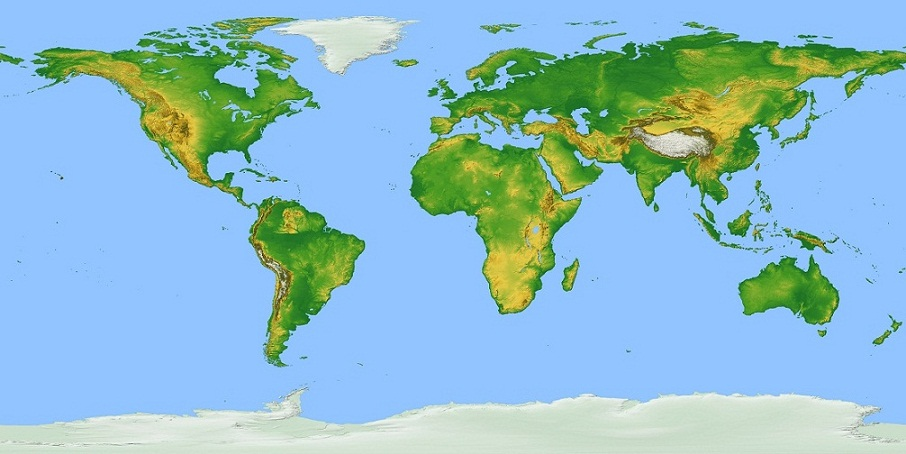
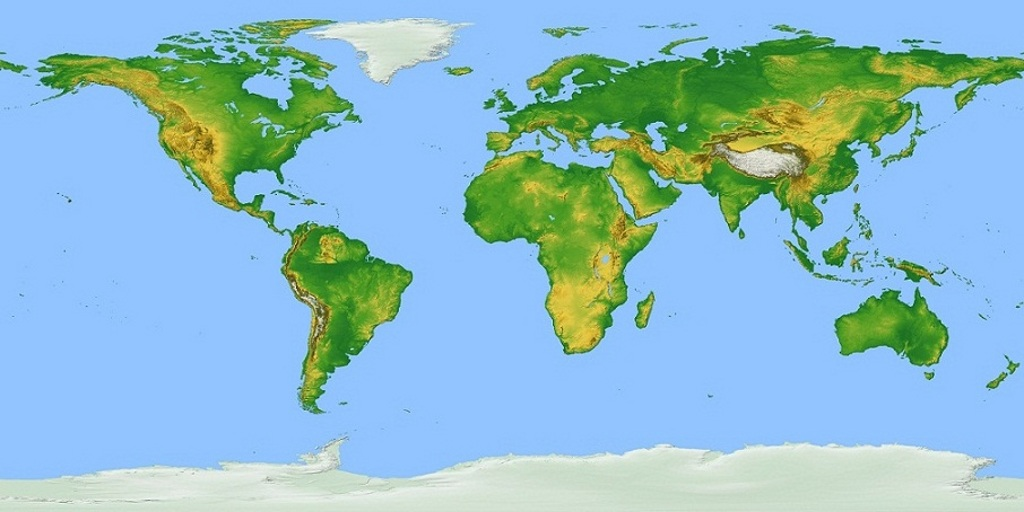
HD device texturing fixing

Changed region(s): [[0.2781, 0.5551, 0.3091, 0.5859]]

diff --git a/OpenGL_Engine/src/com/android/opengl/gameobject/util/LoaderManager.java b/OpenGL_Engine/src/com/android/opengl/gameobject/util/LoaderManager.java
@@ -9,6 +9,8 @@ import java.util.Map;
 import java.util.Map.Entry;
 import java.util.Set;
 
+import javax.microedition.khronos.opengles.GL10;
+
 import org.apache.commons.io.IOUtils;
 
 import android.content.Context;
@@ -414,11 +416,17 @@ public class LoaderManager {
 	 
 //	        GLES20.glTexParameteri(GLES20.GL_TEXTURE_2D, GLES20.GL_TEXTURE_MIN_FILTER, GLES20.GL_NEAREST);
 //	        GLES20.glTexParameteri(GLES20.GL_TEXTURE_2D, GLES20.GL_TEXTURE_MAG_FILTER, GLES20.GL_NEAREST);
-	 	 
+//	 	 
 	        GLES20.glTexParameterf(GLES20.GL_TEXTURE_2D, GLES20.GL_TEXTURE_MIN_FILTER, GLES20.GL_LINEAR_MIPMAP_LINEAR);
 	        GLES20.glTexParameterf(GLES20.GL_TEXTURE_2D, GLES20.GL_TEXTURE_MAG_FILTER, GLES20.GL_LINEAR_MIPMAP_NEAREST);
-	        GLES20.glTexParameterf(GLES20.GL_TEXTURE_2D, GLES20.GL_TEXTURE_WRAP_S, GLES20.GL_REPEAT);
-	        GLES20.glTexParameterf(GLES20.GL_TEXTURE_2D, GLES20.GL_TEXTURE_WRAP_T, GLES20.GL_REPEAT);
+	        GLES20.glTexParameterf(GLES20.GL_TEXTURE_2D, GLES20.GL_TEXTURE_WRAP_S, GLES20.GL_CLAMP_TO_EDGE);
+	        GLES20.glTexParameterf(GLES20.GL_TEXTURE_2D, GLES20.GL_TEXTURE_WRAP_T, GLES20.GL_CLAMP_TO_EDGE);
+//	        GLES20.glTexParameterf(GL10.GL_TEXTURE_2D, GL10.GL_TEXTURE_MIN_FILTER, GL10.GL_NEAREST);
+//	        GLES20.glTexParameterf(GL10.GL_TEXTURE_2D, GL10.GL_TEXTURE_MAG_FILTER, GL10.GL_LINEAR);
+//
+//	        GLES20.glTexParameterf(GL10.GL_TEXTURE_2D, GL10.GL_TEXTURE_WRAP_S, GL10.GL_CLAMP_TO_EDGE);
+//	        GLES20.glTexParameterf(GL10.GL_TEXTURE_2D, GL10.GL_TEXTURE_WRAP_T, GL10.GL_CLAMP_TO_EDGE);
+
 	        
             GLUtils.texImage2D(GLES20.GL_TEXTURE_2D, 0, bmp, 0);
             GLES20.glGenerateMipmap(GLES20.GL_TEXTURE_2D);

diff --git a/OpenGL_Engine/src/com/android/opengl/shader/Shader.java b/OpenGL_Engine/src/com/android/opengl/shader/Shader.java
@@ -1,6 +1,7 @@
 package com.android.opengl.shader;
 
 import android.opengl.GLES20;
+import android.util.Log;
 
 public abstract class Shader {
 
@@ -44,4 +45,16 @@ public abstract class Shader {
 	public abstract String getVertexShaderSrc();
 	public abstract String getFragmentShaderSrc();
 
+	public static void checkGlError(String op) {
+	    int error;
+	    while ((error = GLES20.glGetError()) != GLES20.GL_NO_ERROR) {
+	      Log.e(TAG, op + ": glError " + error);
+	      StackTraceElement[] elements = Thread.getAllStackTraces().get(Thread.currentThread());
+	      for(StackTraceElement element: elements){
+	    	  Log.e(TAG, element.toString());
+	      }
+	      Log.e(TAG, "================================================");
+//		      throw new RuntimeException(op + ": glError " + error);
+	    }
+	}	
 }
